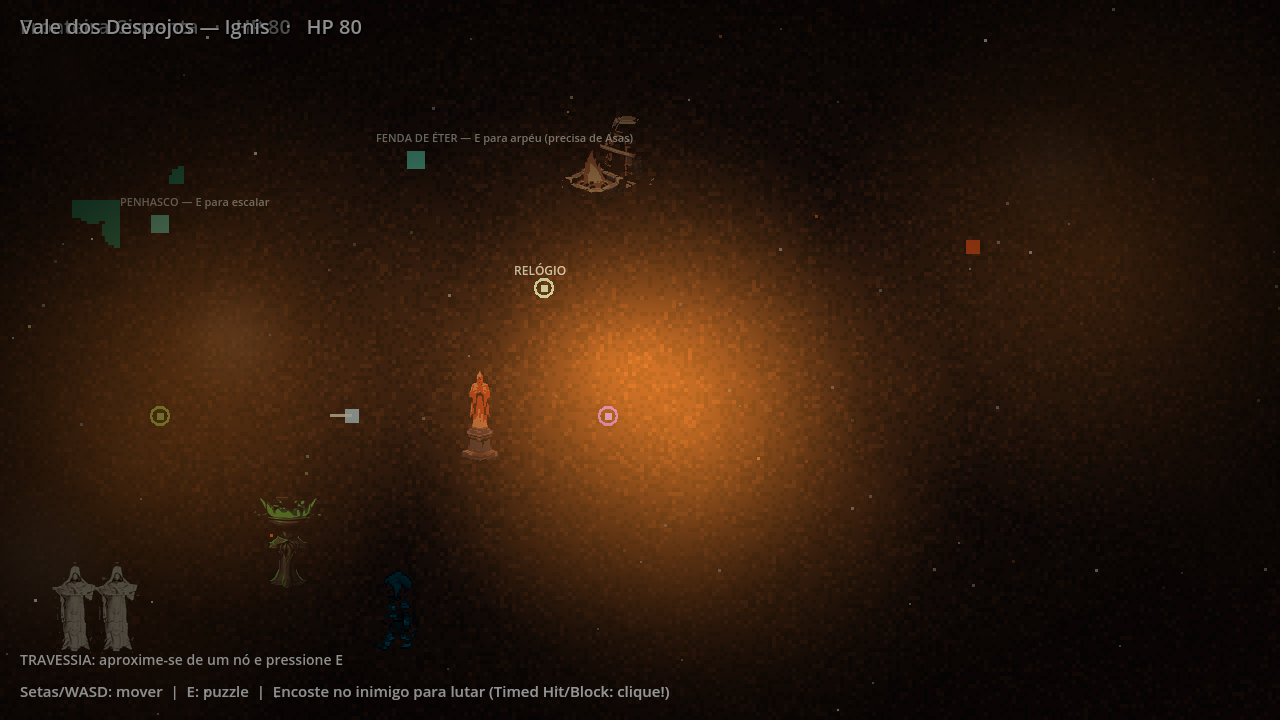
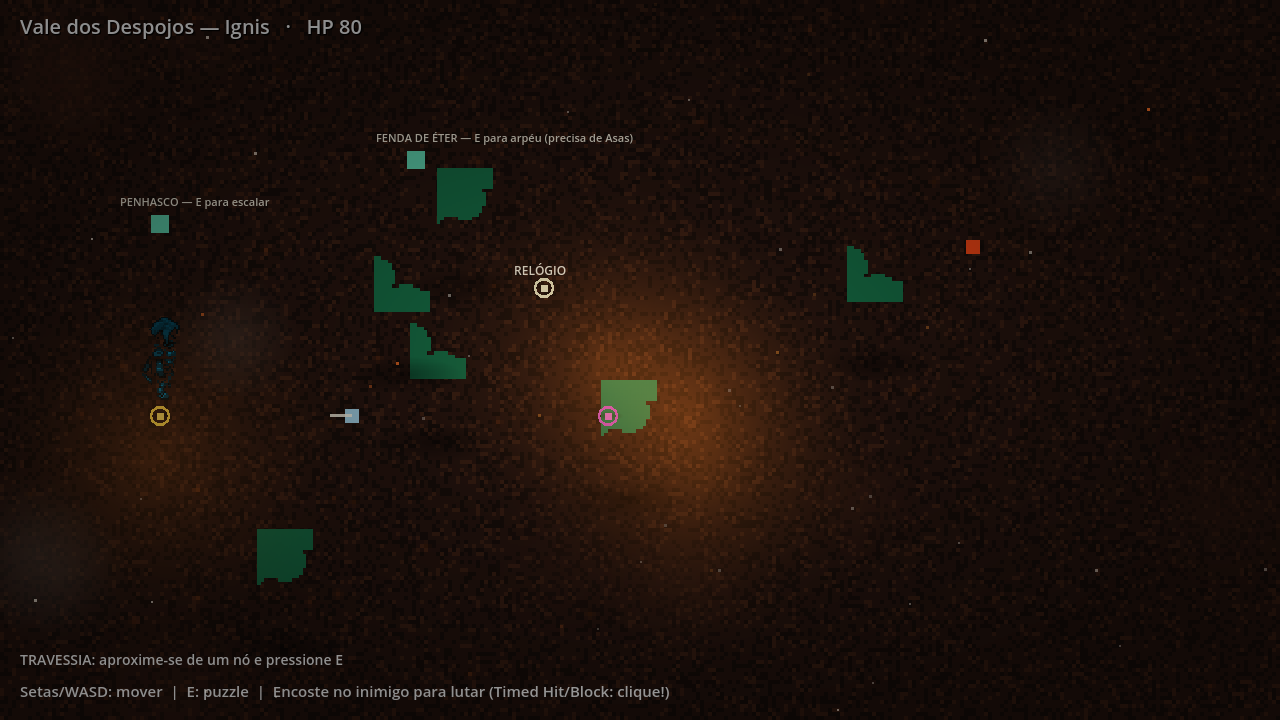
polish(declutter-2): props ComfyUI removidos dos mapas, decorações do Eder por bioma - 7 blocos props esvaziados (árvores mortas/barris/panela/cálice eram ruidosos); _spawn_tile_decorations com células corretas do atlas (árvore redonda 11,3 / pinheiros 2,0 / colina 11-14,3 / casinhas 0-7,7), escala 

diff --git a/tools/inspect_trees.py b/tools/inspect_trees.py
@@ -1,0 +1,16 @@
+from PIL import Image, ImageDraw
+
+img = Image.open("assets/tilesets/edermunizz_overworld.png").convert("RGBA")
+# Região estimada das árvores finas: cols 3-5, rows 3-5 → px (48,48)-(96,96)
+crop = img.crop((48, 48, 96, 96))
+zoom = crop.resize((crop.width * 6, crop.height * 6), Image.NEAREST)
+bg = Image.new("RGBA", zoom.size, (25, 30, 40, 255))
+bg.alpha_composite(zoom)
+draw = ImageDraw.Draw(bg.convert("RGB"))
+# Grade a cada 4px (sub-células) para achar o bbox exato
+for gx in range(0, crop.width + 1, 4):
+    draw.line([(gx * 6, 0), (gx * 6, bg.height)], fill=(120, 120, 200), width=1)
+for gy in range(0, crop.height + 1, 4):
+    draw.line([(0, gy * 6), (bg.width, gy * 6)], fill=(120, 120, 200), width=1)
+bg.convert("RGB").save("tools/qa_shots/zoom5_trees.png")
+print("ok: região (48,48)-(96,96), grade 4px")

diff --git a/tools/inspect_full.py b/tools/inspect_full.py
@@ -1,0 +1,17 @@
+from PIL import Image, ImageDraw
+
+img = Image.open("assets/tilesets/edermunizz_overworld.png").convert("RGBA")
+bg = Image.new("RGBA", img.size, (25, 30, 40, 255))
+bg.alpha_composite(img)
+zoom = bg.resize((img.width * 3, img.height * 3), Image.NEAREST)
+draw = ImageDraw.Draw(zoom)
+for c in range(0, img.width + 1, 16):
+    draw.line([(c * 3, 0), (c * 3, zoom.height)], fill=(255, 0, 0), width=1)
+    if c * 3 + 4 < zoom.width:
+        draw.text((c * 3 + 4, 3), str(c // 16), fill=(255, 255, 0))
+for r in range(0, img.height + 1, 16):
+    draw.line([(0, r * 3), (zoom.width, r * 3)], fill=(255, 0, 0), width=1)
+    if r * 3 + 4 < zoom.height:
+        draw.text((3, r * 3 + 4), str(r // 16), fill=(255, 255, 0))
+zoom.convert("RGB").save("tools/qa_shots/zoom_full_atlas.png")
+print("ok")

diff --git a/tools/inspect_roundtrees.py b/tools/inspect_roundtrees.py
@@ -1,0 +1,14 @@
+from PIL import Image, ImageDraw
+
+img = Image.open("assets/tilesets/edermunizz_overworld.png").convert("RGBA")
+crop = img.crop((176, 48, 272, 112))  # cols 11-16, rows 3-7
+zoom = crop.resize((crop.width * 6, crop.height * 6), Image.NEAREST)
+bg = Image.new("RGBA", zoom.size, (25, 30, 40, 255))
+bg.alpha_composite(zoom)
+draw = ImageDraw.Draw(bg.convert("RGB"))
+for gx in range(0, crop.width + 1, 8):
+    draw.line([(gx * 6, 0), (gx * 6, bg.height)], fill=(120, 120, 200), width=1)
+for gy in range(0, crop.height + 1, 8):
+    draw.line([(0, gy * 6), (bg.width, gy * 6)], fill=(120, 120, 200), width=1)
+bg.convert("RGB").save("tools/qa_shots/zoom6_roundtrees.png")
+print("ok cols 11-16 rows 3-7")

diff --git a/tools/_strip_props.py b/tools/_strip_props.py
@@ -1,0 +1,21 @@
+path = "scripts/map_database.gd"
+lines = open(path, encoding="utf-8").read().splitlines(keepends=True)
+out = []
+in_props = False
+removed = 0
+for line in lines:
+    stripped = line.strip()
+    if stripped.startswith('"props"'):
+        in_props = True
+        indent = line[: len(line) - len(line.lstrip())]
+        out.append(indent + '"props": [],\n')
+        removed += 1
+        continue
+    if in_props:
+        if stripped in ("],", "]"):
+            in_props = False
+            continue
+        continue
+    out.append(line)
+open(path, "w", encoding="utf-8", newline="").writelines(out)
+print("blocos props esvaziados:", removed)
